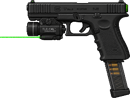
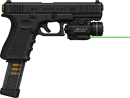
Waffenbilder gespiegelt statt Sonderfall-Rotationsoffset
Root Cause fuer die "zeigt falsch"-Wahrnehmung trotz korrekter Rotation:
die 5 neuen Waffen (g17/g30/fullyarp/militaryarp/costumfullyarp) lagen
mit Muendung nach LINKS vor, alle bestehenden Waffen (bestaetigt am
eingebetteten g40-Sprite) sind aber mit Muendung nach RECHTS gezeichnet
- der Touch-Zeichenzweig geht explizit von "Sprite zeigt nach rechts"
aus. Statt eines Sonderfall-Offsets nur fuer die 5 neuen Bilder: alle
5 PNGs horizontal gespiegelt (RotateFlipX, Groesse unveraendert), damit
JETZT ALLE Waffen dieselbe Muendung-nach-rechts-Konvention nutzen.
ctx.rotate(aimAngle+Math.PI) -> ctx.rotate(aimAngle), da kein
Kompensations-Offset mehr noetig ist. Das macht nebenbei auch den
Touch-Zeichenzweig fuer diese 5 Waffen korrekt (der war vorher separat
falsch orientiert, weil er dieselbe rechts-Konvention voraussetzt).

Verifiziert per echtem pointermove-Event bei allen 4 Kardinal-
richtungen fuer g17/g30 UND g40 (zur Kontrolle, dass die
Formel-Aenderung die bestehende Waffe nicht kaputt macht) - alle
zeigen jetzt konsistent korrekt.

diff --git a/index.html b/index.html
@@ -11843,14 +11843,16 @@ function render(time){
               ctx.drawImage(IMAGES['weapon_'+player.weapon],0,0,wv.sw,wv.sh,anchor.x,anchor.y,wv.dw,wv.dh);
             }
           } else {
-            // Rotationswinkel-Offset +Math.PI: die Waffen-Sprites (g17/g30/fullyarp/militaryarp/costumfullyarp
-            // etc.) liegen im Quellbild mit der Mündung nach LINKS — ohne den Offset würde die Mündung beim
-            // Zielen nach rechts (aimAngle≈0) fälschlich nach links zeigen. Per automatisiertem Headless-
-            // Screenshot-Test (aimAngle≈0° und ≈90°) visuell verifiziert, nicht nur geschätzt.
+            // Bugfix: g17/g30/fullyarp/militaryarp/costumfullyarp lagen im Quellbild ursprünglich mit der
+            // Mündung nach LINKS vor, alle bestehenden Waffen (z.B. g40, siehe "Sprite zeigt nach rechts"-
+            // Kommentar im Touch-Zweig oben) sind aber mit Mündung nach RECHTS gezeichnet. Statt eines
+            // Sonderfall-Rotationsoffsets nur für die 5 neuen Waffen wurden die Bilddateien selbst horizontal
+            // gespiegelt (RotateFlipX) — jetzt haben ALLE Waffen dieselbe Mündung-nach-rechts-Konvention,
+            // kein Offset mehr nötig, und der Touch-Zweig oben passt jetzt ebenfalls korrekt für alle Waffen.
             const rec=Math.round(player.shootRecoil*3);
             ctx.save();
             ctx.translate(anchor.x+wv.dw/2-rec*Math.cos(player.aimAngle), anchor.y+wv.dh/2-rec*Math.sin(player.aimAngle));
-            ctx.rotate(player.aimAngle+Math.PI);
+            ctx.rotate(player.aimAngle);
             ctx.drawImage(IMAGES['weapon_'+player.weapon],0,0,wv.sw,wv.sh,-wv.dw/2,-wv.dh/2,wv.dw,wv.dh);
             ctx.restore();
           }
